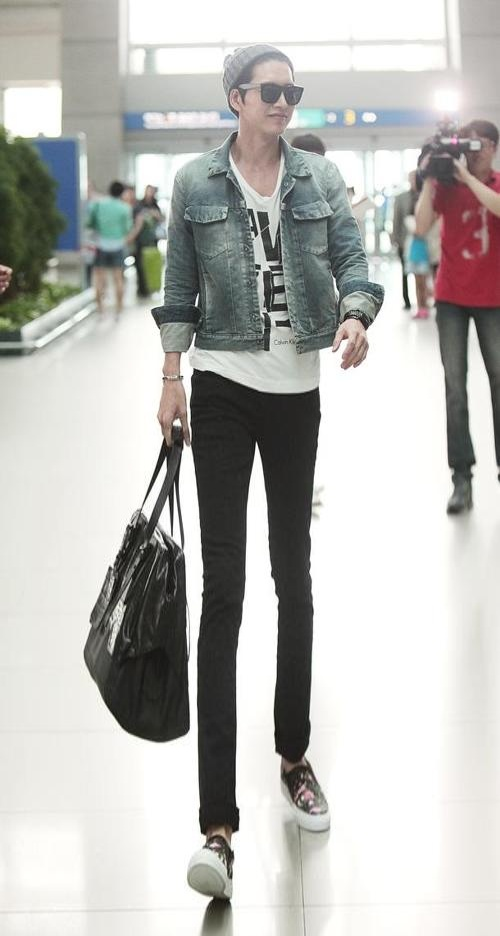
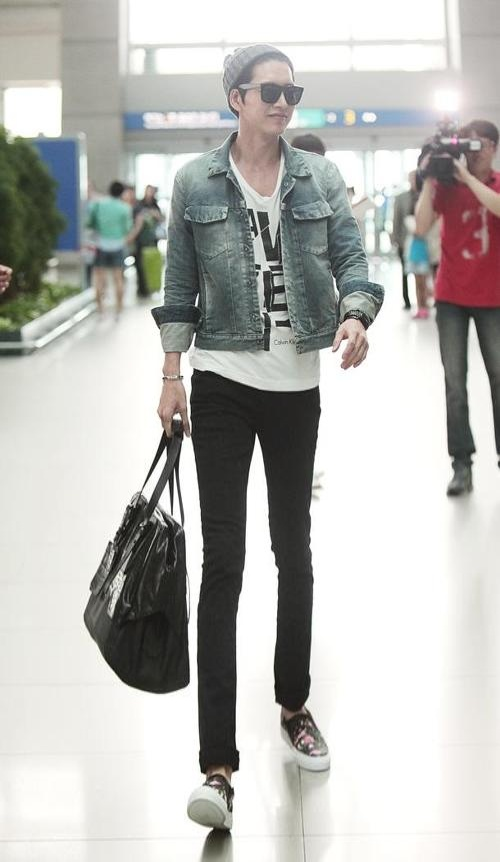
Update ratio

diff --git a/server/correct.py b/server/correct.py
@@ -24,10 +24,10 @@ def correct(img):
             if len(leg_ys) > 10:
                 leg_y_avg = int(sum(leg_ys[-10:]) / 10)
 
-            img_long = cv2.resize(img[leg_y_avg:], dsize=None, fx=1.0, fy=1.5)
+            img_long = cv2.resize(img[leg_y_avg:], dsize=None, fx=1.0, fy=1.3)
             #img_long = cv2.resize(img_long[:int(img_long.shape[0] * 0.75)], dsize=(W, H - leg_y_avg))
             #output[leg_y_avg:] = img_long
-            
+
             output = cv2.vconcat([output[:leg_y_avg],img_long])
         
         return output
@@ -37,4 +37,5 @@ if __name__ == "__main__":
     src = cv2.imread(path)
     dst = correct(src)
     #view = cv2.hconcat([src,dst])
+    #cv2.imwrite("./img/result.jpg", view)
     cv2.imwrite("./img/result.jpg", dst)
